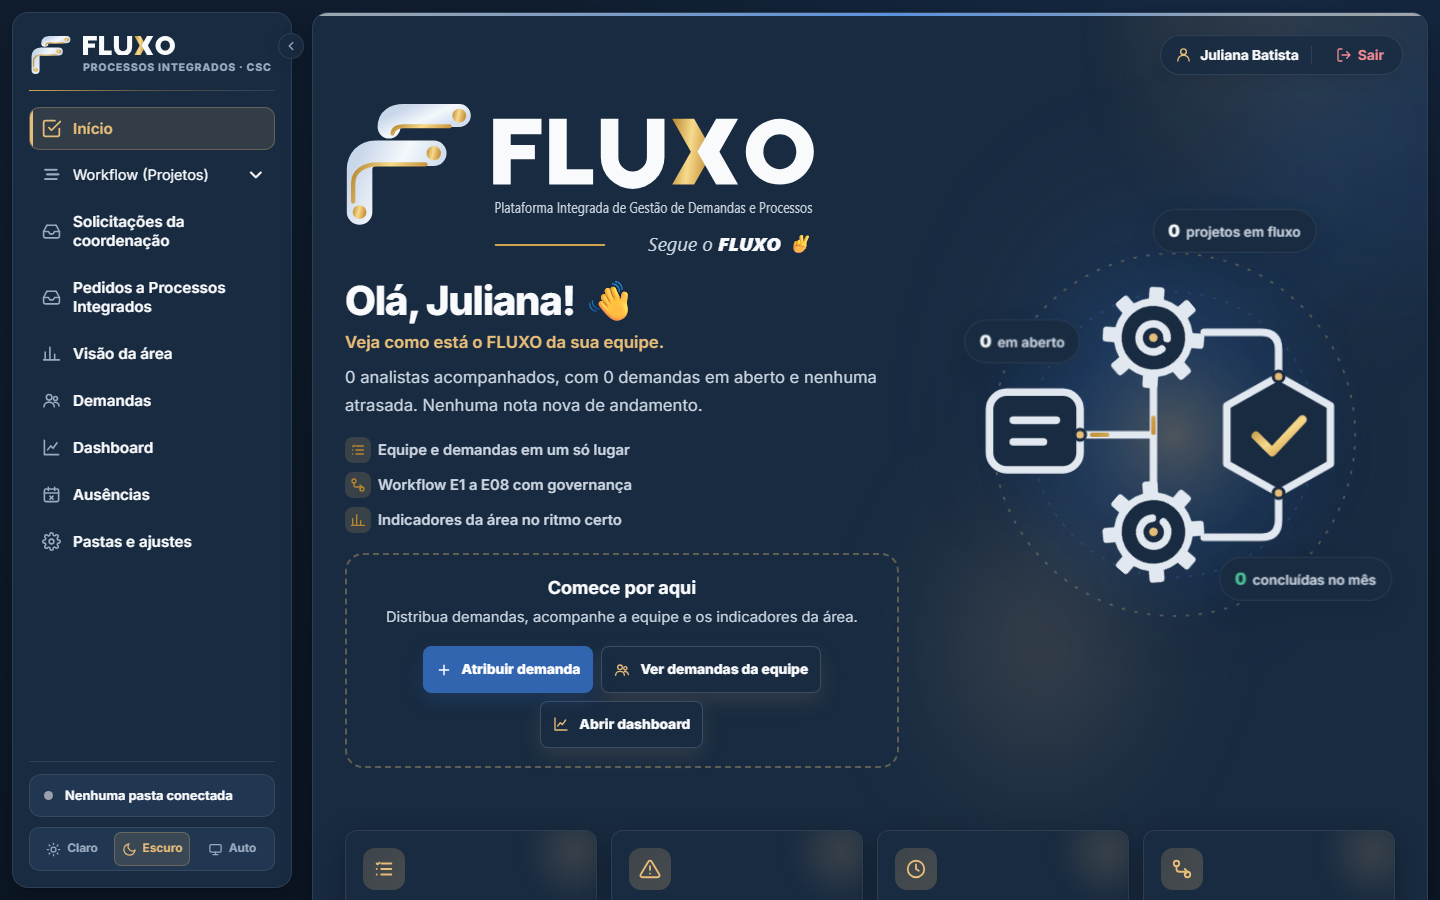
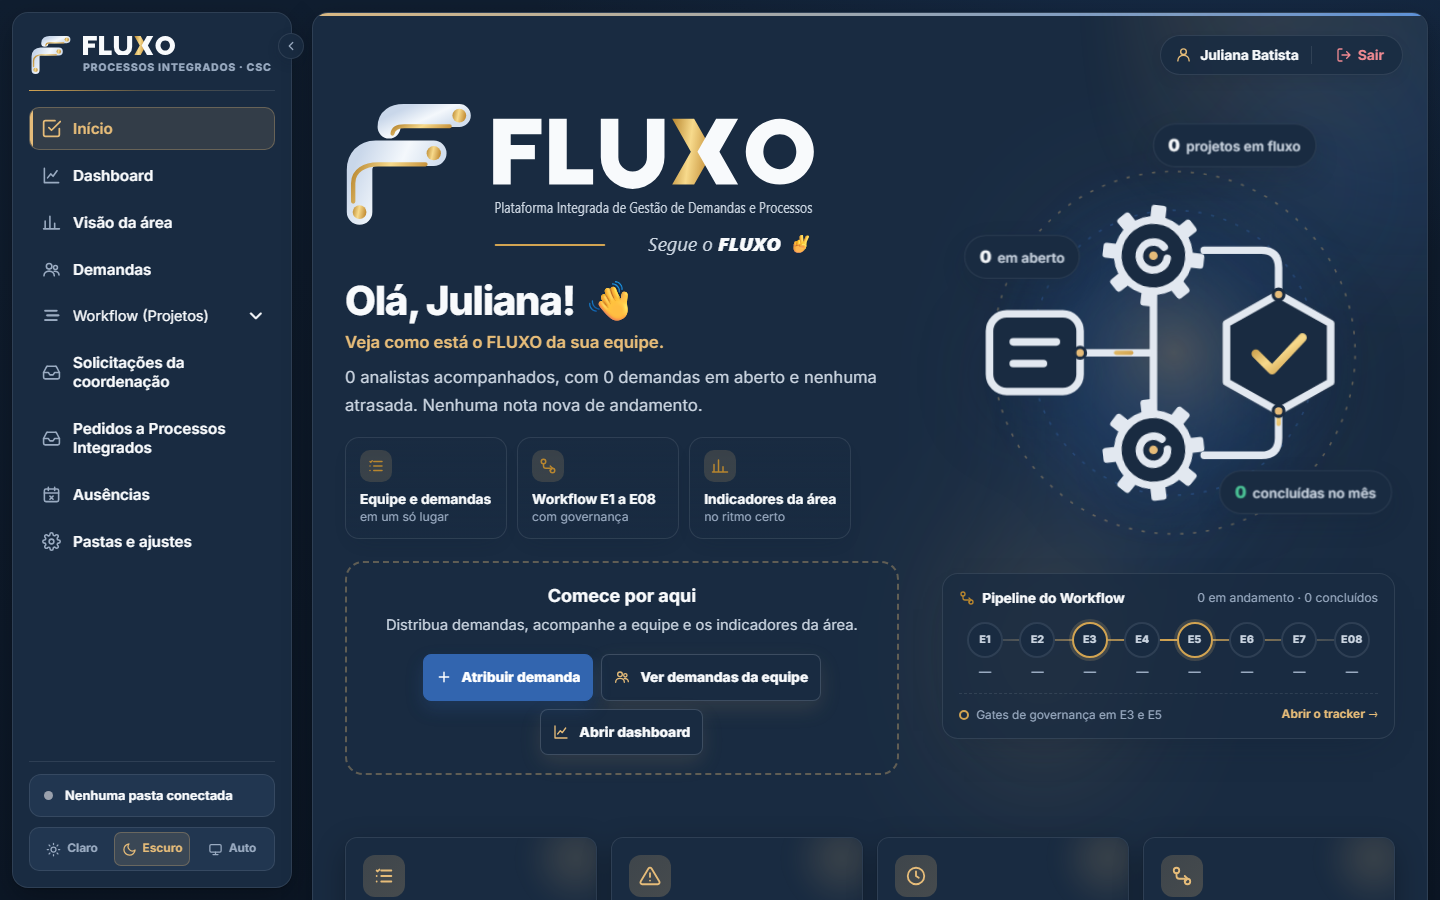
feat: menu da supervisão em ordem lógica e capa com destaques e pipeline
- Supervisão: Início, Dashboard, Visão da área, Demandas, Workflow
  (Projetos), Solicitações, Pedidos a Processos Integrados, coordenações,
  Ausências e Pastas e ajustes.
- Capa: as três frases viram cartões de destaque (ícone, título e
  complemento), responsivos.
- Capa: Pipeline do Workflow abaixo da ilustração, com projetos por etapa
  (dados reais), gates E3/E5 destacados e atalhos para cada etapa.

diff --git a/02-usuario/app/pgd.js b/02-usuario/app/pgd.js
@@ -4250,7 +4250,8 @@ const NAVS = {
   coordenacao:[['inicio', 'Início', I.home, ''], ['supervisoes', 'Supervisões', I.building, ''], ['substituicao', 'Substituição', I.swap, 'subst'], ['minhas', 'Solicitações', I.inbox, 'myreq'], ['indicadores', 'Visão geral', I.chart, 'late'], ['demandas', 'Demandas', I.team, ''], ['dashboard', 'Dashboard', I.dash, ''], ['ausencia', 'Ausências', I.away, 'ausr'], ['fontes', 'Pastas', I.gear, '']],
   solicitante:[['inicio', 'Início', I.home, ''], ['minhas', 'Minhas solicitações', I.inbox, 'myreq']],
   colaborador:[['inicio', 'Início', I.home, ''], ['indicadores', 'Indicadores', I.chart, 'late'], ['tarefas', 'Tarefas', I.tasks, 'open'], ['workflow', 'Workflow (Projetos)', I.flow, 'wf'], ['ausencia', 'Ausência', I.away, 'ausme'], ['validacao', 'Validação', I.inbox, 'conv'], ['backup', 'Pasta e backup', I.db, '']],
-  supervisor:[['inicio', 'Início', I.home, ''], ['workflow', 'Workflow (Projetos)', I.flow, 'wf'], ['solicitacoes', 'Solicitações', I.inbox, 'req'], ['minhas', 'Pedidos a Processos Integrados', I.inbox, 'myreq'], ['coord-cf', 'Contábil Fiscal', I.building, 'coord'], ['coord-ft', 'Finanças e Tesouraria', I.building, 'coord'], ['indicadores', 'Visão da área', I.chart, 'late'], ['demandas', 'Demandas', I.team, 'bell'], ['dashboard', 'Dashboard', I.dash, ''], ['ausencia', 'Ausências', I.away, 'aus'], ['fontes', 'Pastas e ajustes', I.gear, '']]
+  // Supervisão: visão geral (Início, Dashboard, Visão da área) → gestão (Demandas, Workflow) → entradas (Solicitações, Pedidos, coordenações) → planejamento (Ausências) → configuração
+  supervisor:[['inicio', 'Início', I.home, ''], ['dashboard', 'Dashboard', I.dash, ''], ['indicadores', 'Visão da área', I.chart, 'late'], ['demandas', 'Demandas', I.team, 'bell'], ['workflow', 'Workflow (Projetos)', I.flow, 'wf'], ['solicitacoes', 'Solicitações', I.inbox, 'req'], ['minhas', 'Pedidos a Processos Integrados', I.inbox, 'myreq'], ['coord-cf', 'Contábil Fiscal', I.building, 'coord'], ['coord-ft', 'Finanças e Tesouraria', I.building, 'coord'], ['ausencia', 'Ausências', I.away, 'aus'], ['fontes', 'Pastas e ajustes', I.gear, '']]
 };
 // Itens do menu conforme o tipo de painel e a pasta conectada
 function navItems() {
@@ -4440,11 +4441,13 @@ function renderHome() {
   const hello = h < 12 ? 'Bom dia' : h < 18 ? 'Boa tarde' : 'Boa noite';
   const first = s => String(s || '').trim().split(/\s+/)[0];
   const who = isReader() ? first(cfg.name) : isSup ? first((PRESET && PRESET.nome) || cfg.name || (supCtx && supCtx.supervisor) || '') : first(cfg.name);
-  // Frases que apresentam o sistema (o estado da pasta fica no rodapé do menu)
-  const pills = [
-    `<span class="status-pill fx-valor">${I.tasks}${isSup ? 'Equipe e demandas em um só lugar' : 'Demandas e projetos em um só lugar'}</span>`,
-    `<span class="status-pill fx-valor">${I.flow}Workflow E1 a E08 com governança</span>`,
-    `<span class="status-pill fx-valor">${I.chart}${isSup ? 'Indicadores da área no ritmo certo' : 'Indicadores no ritmo certo'}</span>`];
+  // Destaques que apresentam o sistema (o estado da pasta fica no rodapé do menu); "pills" guarda só avisos, como ausência
+  const pills = [];
+  const valores = [
+    [I.tasks, isSup ? 'Equipe e demandas' : 'Demandas e projetos', 'em um só lugar'],
+    [I.flow, 'Workflow E1 a E08', 'com governança'],
+    [I.chart, isSup ? 'Indicadores da área' : 'Indicadores', 'no ritmo certo']
+  ].map(([ic, forte, resto]) => `<li class="fx-valor">${ic}<span><b>${forte}</b>${resto}</span></li>`).join('');
   let lead, actions, cards;
   if (isReader()) {
     const sups = readerSupsAll(), mk = curMonth(), a = aggregate(linesFor(mk).lines, 'todos', 'todos');
@@ -4512,7 +4515,14 @@ function renderHome() {
     const ss = substSups();
     if (ss.length) extra += `<p class="banner info"><span>${I.away} Você está respondendo por ${ss.map(s => `<b>${esc(s.supervisor)}</b> (até ${fmtDate(ausOf(s.id).fim)})`).join(', ')}. Designe, altere prazos, escreva notas e responda às solicitações na tela Substituição.</span><button class="btn sm primary" data-act="go" data-view="substituicao">Abrir substituição</button></p>`;
   }
-  const wfAbertos = wfProjetos().filter(p => wfTracker(p.t).atual).length;
+  const wfTrs = wfProjetos().map(p => wfTracker(p.t));
+  const wfAbertos = wfTrs.filter(t => t.atual).length, wfFeitos = wfTrs.length - wfAbertos;
+  const wfPorEtapa = n => wfTrs.filter(t => t.atual && t.atual.numero === n).length;
+  const wfTelas = WF_VIEWS();
+  const pipeline = WF.ETAPAS.map(e => {
+    const qtd = wfPorEtapa(e.numero), view = wfTelas.includes('wf-e' + e.numero) ? 'wf-e' + e.numero : 'workflow';
+    return `<li><button type="button" class="fx-pipe-no${e.gate ? ' gate' : ''}${qtd ? ' ativo' : ''}" data-act="go" data-view="${view}" title="${esc(`${e.codigo} — ${e.nome}${e.gate ? ' · gate de governança' : ''}: ${plural(qtd, 'projeto', 'projetos')}`)}"><span class="fx-pipe-cod">${e.codigo}</span><span class="fx-pipe-qtd">${qtd || '—'}</span></button></li>`;
+  }).join('');
   $('#homeArea').innerHTML = `
     <section class="fx-capa${fxCapaEntrada()}" aria-label="Apresentação">
       <span class="fx-capa-aurora" aria-hidden="true"></span>
@@ -4521,7 +4531,8 @@ function renderHome() {
         <h2>Olá${who ? `, ${esc(who)}` : ''}! 👋</h2>
         <p class="fx-kicker">${isSup ? 'Veja como está o FLUXO da sua equipe.' : 'Veja como está o FLUXO das suas demandas.'}</p>
         <p class="fx-capa-lead">${esc(lead)}</p>
-        <div class="status-badges">${pills.join('')}</div>
+        ${pills.length ? `<div class="status-badges">${pills.join('')}</div>` : ''}
+        <ul class="fx-valores" aria-label="O que o FLUXO reúne">${valores}</ul>
         <div class="fx-capa-acoes">
           <strong>Comece por aqui</strong>
           <span>${isSup ? 'Distribua demandas, acompanhe a equipe e os indicadores da área.' : 'Registre uma demanda, acompanhe suas tarefas e os indicadores.'}</span>
@@ -4534,6 +4545,11 @@ function renderHome() {
           <span class="fx-capa-chip fx-chip-doc"><b>${open.length}</b> ${open.length === 1 ? 'em aberto' : 'em aberto'}</span>
           <span class="fx-capa-chip fx-chip-gear"><b>${wfAbertos}</b> ${wfAbertos === 1 ? 'projeto em fluxo' : 'projetos em fluxo'}</span>
           <span class="fx-capa-chip fx-chip-ok"><b>${doneMonth}</b> ${doneMonth === 1 ? 'concluída no mês' : 'concluídas no mês'}</span>
+        </div>
+        <div class="fx-pipe" aria-label="Pipeline do Workflow">
+          <div class="fx-pipe-topo"><strong>${I.flow}Pipeline do Workflow</strong><span>${plural(wfAbertos, 'em andamento', 'em andamento')} · ${plural(wfFeitos, 'concluído', 'concluídos')}</span></div>
+          <ol class="fx-pipe-trilha">${pipeline}</ol>
+          <div class="fx-pipe-rodape"><span><i class="fx-pipe-marca"></i>Gates de governança em E3 e E5</span><button type="button" class="fx-pipe-link" data-act="go" data-view="workflow">Abrir o tracker →</button></div>
         </div>
       </div>
     </section>

diff --git a/02-usuario/app/fluxo.css b/02-usuario/app/fluxo.css
@@ -457,11 +457,48 @@ dialog[open] { animation: fxPop var(--fx-base) var(--fx-ease); }
   .fx-capa-palco { transform: none; }
 }
 
-/* Frases do sistema na capa (no lugar dos estados de pasta, sincronização e data) */
-.fx-capa-conteudo .status-badges:has(.fx-valor) { flex-direction: column; align-items: flex-start; gap: 9px; }
-.fx-capa-conteudo .status-pill.fx-valor { padding: 0; border: 0; background: none; box-shadow: none; backdrop-filter: none; color: var(--fx-ink-2); font-size: .92rem; font-weight: 600; }
-.fx-capa-conteudo .status-pill.fx-valor svg { flex: none; width: 26px; height: 26px; padding: 5px; border-radius: 8px; color: #B8862F; background: rgba(230, 188, 121, .16); }
-@media (max-width: 1100px) { .fx-capa-conteudo .status-badges:has(.fx-valor) { align-items: center; } }
+/* Destaques do sistema na capa: trio de cartões leves (ícone dourado + título + complemento) */
+.fx-valores { display: grid; grid-template-columns: repeat(3, minmax(0, 1fr)); gap: 10px; max-width: 620px; margin: 18px 0 22px; padding: 0; list-style: none; }
+.fx-valor { display: flex; flex-direction: column; align-items: flex-start; gap: 9px; min-width: 0; padding: 12px 14px 13px; border: 1px solid var(--fx-line); border-radius: 14px; background: linear-gradient(180deg, rgba(var(--fx-surface-rgb), .92), rgba(var(--fx-surface-rgb), .62)); backdrop-filter: blur(6px); box-shadow: 0 8px 20px -14px rgba(16, 30, 48, .45); transition: transform var(--fx-fast) var(--fx-ease), border-color var(--fx-fast) var(--fx-ease), box-shadow var(--fx-fast) var(--fx-ease); }
+.fx-valor:hover { transform: translateY(-2px); border-color: rgba(230, 188, 121, .6); box-shadow: 0 14px 26px -16px rgba(16, 30, 48, .5); }
+.fx-valor svg { flex: none; width: 32px; height: 32px; padding: 7px; border-radius: 10px; color: #B8862F; background: rgba(230, 188, 121, .16); }
+.fx-valor span { display: flex; flex-direction: column; min-width: 0; color: var(--fx-ink-3); font-size: .76rem; line-height: 1.3; }
+.fx-valor b { color: var(--fx-ink); font-size: .86rem; font-weight: 700; white-space: nowrap; }
+
+/* Pipeline do Workflow abaixo da ilustração: projetos por etapa atual, com os gates E3 e E5 destacados */
+.fx-pipe { width: min(100%, 540px); margin: 4px auto 0; padding: 14px 16px 12px; border: 1px solid var(--fx-line); border-radius: 16px; background: rgba(var(--fx-surface-rgb), .74); backdrop-filter: blur(8px); box-shadow: 0 14px 34px -22px rgba(16, 30, 48, .5); }
+.fx-pipe-topo { display: flex; flex-wrap: wrap; align-items: center; justify-content: space-between; gap: 6px 12px; margin-bottom: 14px; color: var(--fx-ink-3); font-size: .76rem; }
+.fx-pipe-topo strong { display: inline-flex; align-items: center; gap: 7px; color: var(--fx-ink); font-size: .86rem; font-weight: 700; }
+.fx-pipe-topo strong svg { width: 16px; height: 16px; color: #B8862F; }
+.fx-pipe-trilha { position: relative; display: grid; grid-template-columns: repeat(8, minmax(0, 1fr)); margin: 0; padding: 0; list-style: none; }
+.fx-pipe-trilha::before { content: ''; position: absolute; top: 17px; left: 6%; right: 6%; height: 2px; border-radius: 2px; background: linear-gradient(90deg, var(--fx-line), #D2A452 50%, var(--fx-line)); }
+.fx-pipe-no { position: relative; display: flex; flex-direction: column; align-items: center; gap: 5px; width: 100%; padding: 0; border: 0; background: none; color: inherit; font: inherit; cursor: pointer; }
+.fx-pipe-cod { display: grid; place-items: center; width: 36px; height: 36px; border: 2px solid var(--fx-line); border-radius: 50%; background: var(--fx-surface); color: var(--fx-ink-2); font-size: .66rem; font-weight: 800; letter-spacing: .02em; transition: transform var(--fx-fast) var(--fx-ease), border-color var(--fx-fast) var(--fx-ease), background var(--fx-fast) var(--fx-ease); }
+.fx-pipe-no.gate .fx-pipe-cod { border-color: #D2A452; box-shadow: 0 0 0 3px rgba(230, 188, 121, .18); }
+.fx-pipe-no.ativo .fx-pipe-cod { border-color: var(--fx-accent); background: var(--fx-accent); color: #fff; animation: fxPipePulso 2.6s ease-in-out infinite; }
+.fx-pipe-qtd { color: var(--fx-ink-3); font-size: .76rem; font-weight: 700; font-variant-numeric: tabular-nums; }
+.fx-pipe-no.ativo .fx-pipe-qtd { color: var(--fx-accent); }
+.fx-pipe-no:hover .fx-pipe-cod { transform: translateY(-2px); border-color: var(--fx-accent); }
+.fx-pipe-no:focus-visible { outline: none; }
+.fx-pipe-no:focus-visible .fx-pipe-cod, .fx-pipe-link:focus-visible { outline: 2px solid var(--fx-accent); outline-offset: 2px; }
+@keyframes fxPipePulso { 0%, 100% { box-shadow: 0 0 0 0 rgba(var(--fx-accent-rgb), .35); } 50% { box-shadow: 0 0 0 7px rgba(var(--fx-accent-rgb), 0); } }
+.fx-pipe-rodape { display: flex; flex-wrap: wrap; align-items: center; justify-content: space-between; gap: 6px 12px; margin-top: 12px; padding-top: 10px; border-top: 1px dashed var(--fx-line); color: var(--fx-ink-3); font-size: .74rem; }
+.fx-pipe-marca { display: inline-block; width: 10px; height: 10px; margin-right: 7px; border: 2px solid #D2A452; border-radius: 50%; vertical-align: -1px; }
+.fx-pipe-link { padding: 2px 0; border: 0; background: none; color: var(--fx-accent); font: inherit; font-weight: 700; cursor: pointer; }
+.fx-pipe-link:hover { text-decoration: underline; text-underline-offset: 3px; }
+@media (max-width: 1100px) {
+  .fx-valores { margin-left: auto; margin-right: auto; }
+  .fx-valor { text-align: left; }
+}
+@media (max-width: 560px) {
+  .fx-valores { grid-template-columns: minmax(0, 1fr); max-width: 340px; gap: 8px; }
+  .fx-valor { flex-direction: row; align-items: center; }
+  .fx-pipe { padding: 12px 10px 10px; }
+  .fx-pipe-cod { width: 30px; height: 30px; font-size: .58rem; }
+  .fx-pipe-trilha::before { top: 14px; }
+  .fx-pipe-qtd { font-size: .7rem; }
+}
+@media (prefers-reduced-motion: reduce) { .fx-pipe-no.ativo .fx-pipe-cod { animation: none; } }
 
 /* ============ 12. Menu lateral: altura da tela, rolagem própria e marca ============ */
 /* Marca sem cartão: símbolo + FLUXO + "Processos Integrados · CSC" alinhados; filete dourado separa do menu */

diff --git a/02-usuario/app/marca/README.md b/02-usuario/app/marca/README.md
@@ -43,7 +43,7 @@ A palavra FLUXO é desenhada como vetor (não é texto em fonte). Por isso apare
 | Menu lateral expandido | Sem cartão: símbolo + palavra FLUXO + "Processos Integrados · CSC" alinhados, com um filete dourado separando do menu. O botão de recolher é um círculo discreto na borda do menu |
 | Barra do topo direito | Nome do usuário conectado (dinâmico) | Sair |
 | Menu lateral recolhido | Só o símbolo, centralizado; o botão de abrir continua na borda |
-| Início (analista e supervisão) | Capa de largura total. À esquerda: logo completa com descrição e slogan, saudação, resumo, três frases do sistema e a área "Comece por aqui". À direita: a ilustração animada com as etiquetas de números. Os cartões de atalho vêm abaixo |
+| Início (analista e supervisão) | Capa de largura total. À esquerda: logo completa com descrição e slogan, saudação, resumo, três cartões de destaque e a área "Comece por aqui". À direita: a ilustração animada com as etiquetas de números e, abaixo, o Pipeline do Workflow (E1 a E08, gates E3 e E5). Os cartões de atalho vêm abaixo |
 | Login: área institucional | Logo completa (versão escura) no topo esquerdo; "Segue o FLUXO ✌" com FLUXO em dourado animado. Efeitos: rede com pulsos dourados, nós pulsando, aurora e luz que segue o cursor |
 | Login: cartão de acesso | Símbolo + FLUXO, acima de "Acesse o FLUXO". Cartão de vidro com borda viva (dourado ↔ azul) e reflexo no botão Entrar. Abaixo: "FLUXO · Sua gestão no ritmo certo." e "Elaborado: Processos Integrados". Com "reduzir animações", os movimentos param |
 | Telas internas (Tarefas, Workflow, Indicadores, Validação, Ausência, Pasta e backup, Dashboard) | Marca compacta do menu lateral; a logo completa não se repete |
@@ -56,7 +56,7 @@ Cada local carrega a versão clara e a escura do ativo. A regra `.fx-claro` / `.
 
 ## Ilustração da capa do Início
 
-A capa ocupa toda a largura do painel e segue o padrão de capa do CSC (ideia principal à esquerda, ilustração à direita). **À esquerda:** logo completa como título, saudação, resumo e três frases que apresentam o sistema: "Demandas e projetos em um só lugar" (na supervisão, "Equipe e demandas em um só lugar"), "Workflow E1 a E08 com governança" e "Indicadores no ritmo certo" (na supervisão, "Indicadores da área no ritmo certo"). Depois vem a área tracejada "Comece por aqui". **À direita:** a ilustração com três etiquetas de números reais (em aberto, projetos em fluxo, concluídas no mês). O estado da pasta fica no rodapé do menu; avisos de ausência continuam aparecendo na capa. No HTML, o conteúdo vem primeiro, então leitores de tela e o celular leem a marca e a saudação antes da ilustração, que é decorativa (`aria-hidden`).
+A capa ocupa toda a largura do painel e segue o padrão de capa do CSC (ideia principal à esquerda, ilustração à direita). **À esquerda:** logo completa como título, saudação, resumo e três cartões de destaque (ícone dourado, título e complemento): "Demandas e projetos em um só lugar" (na supervisão, "Equipe e demandas em um só lugar"), "Workflow E1 a E08 com governança" e "Indicadores no ritmo certo" (na supervisão, "Indicadores da área no ritmo certo"). Depois vem a área tracejada "Comece por aqui". **À direita:** a ilustração com três etiquetas de números reais (em aberto, projetos em fluxo, concluídas no mês) e, abaixo dela, o **Pipeline do Workflow**. Ele mostra E1 a E08 com a quantidade de projetos na etapa atual; as etapas com projetos ficam em azul, com um pulso suave, e os gates E3 e E5 ganham aro dourado. Cada etapa abre a sua tela. O estado da pasta fica no rodapé do menu; avisos de ausência continuam aparecendo na capa. No HTML, o conteúdo vem primeiro, então leitores de tela e o celular leem a marca e a saudação antes da ilustração, que é decorativa (`aria-hidden`).
 
 A ilustração é um vetor desenhado nas cores da marca a partir do ícone de processo (documento → duas engrenagens → hexágono de aprovação). Fica embutida em `../pgd.js` (`FX_CAPA_ARTE`), com o estilo e os efeitos em `../fluxo.css` (seção 11).
 

diff --git a/README.md b/README.md
@@ -189,7 +189,7 @@ Os dois painéis usam o mesmo motor (`pgd.js`). O `mode` do preset decide o menu
 
 | Item | Para que serve |
 | --- | --- |
-| **Início** | Capa de largura total em duas colunas. À esquerda: logo FLUXO com slogan, saudação, resumo, três frases do sistema (demandas e projetos em um só lugar; Workflow E1 a E08 com governança; indicadores no ritmo certo) e a área tracejada "Comece por aqui" com as ações. À direita: a ilustração animada do fluxo com etiquetas de números reais (em aberto, projetos em fluxo, concluídas no mês). O estado da pasta fica no rodapé do menu. No tablet e no celular, vira uma coluna. Em seguida vêm os cartões de atalho (em aberto, atrasadas, vencem em breve, Workflow). |
+| **Início** | Capa de largura total em duas colunas. À esquerda: logo FLUXO com slogan, saudação, resumo, três cartões de destaque (demandas e projetos em um só lugar; Workflow E1 a E08 com governança; indicadores no ritmo certo) e a área tracejada "Comece por aqui" com as ações. À direita: a ilustração animada do fluxo, com etiquetas de números reais (em aberto, projetos em fluxo, concluídas no mês). Abaixo dela fica o **Pipeline do Workflow**: E1 a E08 com a quantidade de projetos em cada etapa e os gates E3 e E5 destacados. Cada etapa abre a sua tela, e "Abrir o tracker" leva ao Workflow. O estado da pasta fica no rodapé do menu. No tablet e no celular, vira uma coluna. Em seguida vêm os cartões de atalho (em aberto, atrasadas, vencem em breve, Workflow). |
 | **Indicadores** | Cartões por situação, itens que pedem atenção, régua de prazos, tabela por assunto e ritmo da semana. |
 | **Tarefas** | Lista e quadro das suas demandas: filtros, nova demanda, notas de andamento, anexos, recorrência, relatório em PDF/Excel. |
 | **Workflow (Projetos)** (grupo) | O título só abre e fecha a lista, com animação. Dentro ficam **Workflow** (tracker) e **E3 — Levantamento**, **E4 — Execução**, **E5 — Validação**, **E6 — Ajustes**, **E7 — Entrega**, **E08 — Hypercare** (seção 6). A lista começa fechada e já vem aberta quando a tela atual é do Workflow. |
@@ -201,7 +201,13 @@ A ordem segue o raciocínio da gestão: visão geral (Início e Indicadores), ex
 
 ### Menu da supervisão
 
-**Início**, o grupo **Workflow (Projetos)** (Workflow, **E1 — Solicitação**, **E2 — Triagem** e E3 a E08), Solicitações, Pedidos a Processos Integrados, telas das coordenações (quando a célula é transversal), Visão da área, Demandas, Dashboard (com exportação para PowerPoint), Ausências e **Pastas e ajustes** (conexão com a pasta `Processos Integrados`).
+A ordem segue o raciocínio da gestão:
+
+1. **Visão geral:** **Início**, **Dashboard** (com exportação para PowerPoint) e **Visão da área**.
+2. **Gestão do dia a dia:** **Demandas** e o grupo **Workflow (Projetos)** (Workflow, **E1 — Solicitação**, **E2 — Triagem** e E3 a E08).
+3. **Entradas:** **Solicitações**, **Pedidos a Processos Integrados** e as telas das coordenações (quando a célula é transversal).
+4. **Planejamento:** **Ausências**.
+5. **Configuração:** **Pastas e ajustes** (conexão com a pasta `Processos Integrados`).
 
 ### Rodapé do menu lateral
 
